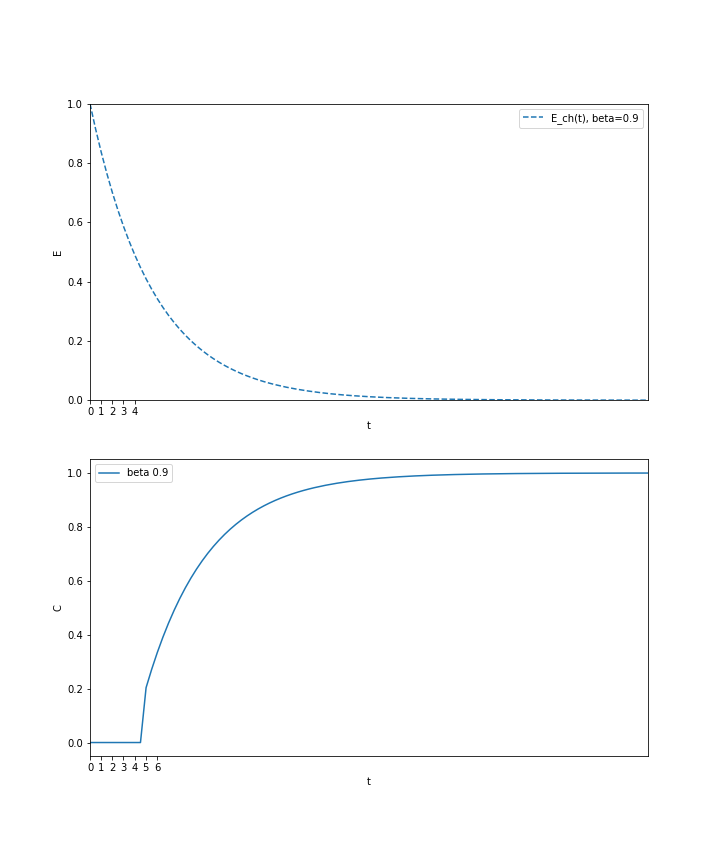
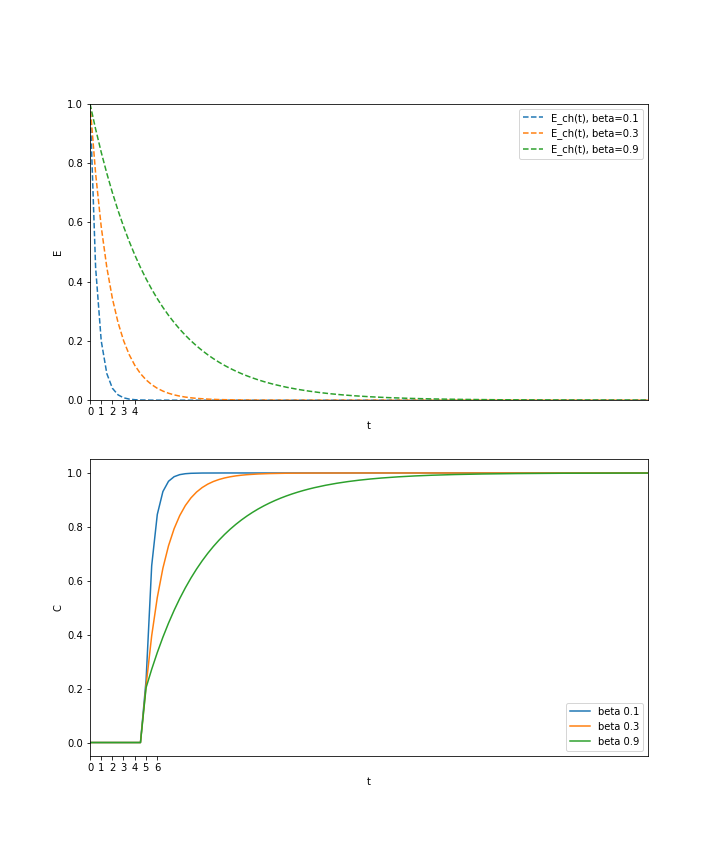
overlap

diff --git a/Experiments/Preliminary/Litrature/Dispersion_Model/Dispersion_Model_002.py b/Experiments/Preliminary/Litrature/Dispersion_Model/Dispersion_Model_002.py
@@ -14,12 +14,12 @@ def dispersion(t: npt.NDArray[np.float64], Bo: float, tau: float) -> npt.NDArray
     E = E / tau
     return E
 
-t = np.linspace(0, 140, 200, endpoint=True) #last position
+t = np.linspace(0, 240, 200, endpoint=True) #last position
 c_0 = np.zeros_like(t)
 c_0[t > 5] = 1
 fig, (ax1, ax2) = plt.subplots(2, 1, figsize=(10, 12))
 
-Bo_values = np.array([1,3,10])
+Bo_values = np.array([1])
 
 base_dir = '/Users/tuanaoyuncu/Documents/GitHub/nRTD/Experiments/Preliminary/Litrature/Dispersion_Model'
 
@@ -31,7 +31,7 @@ for Bo in Bo_values:
     valid_indices = t_conv_full <= 140
     t_conv = t_conv_full[valid_indices]
     c_out = c_out_full[valid_indices]
-    Bo_dir = os.path.join(base_dir, f'Bo{Bo}_200disc_140s')
+    Bo_dir = os.path.join(base_dir, f'Bo{Bo}_200disc_240s')
     os.makedirs(Bo_dir, exist_ok=True)
     print("c_out",c_out.shape)
     print("t_conv_full",t_conv.shape)

diff --git a/Experiments/Preliminary/Litrature/Unified_time_delay/Unified_time_delay_002 2.py b/Experiments/Preliminary/Litrature/Unified_time_delay/Unified_time_delay_002 2.py
@@ -62,8 +62,8 @@ for result in results:
     c_out = c_out_full[valid_indices]
     filename_time = f'time_J{J_val}_tau{tau_val}_alpha{alpha_val}.npy'
     filename_conc = f'concentration_J{J_val}_tau{tau_val}_alpha{alpha_val}.npy'
-    np.save(os.path.join(base_dir, filename_time), t_conv)
-    np.save(os.path.join(base_dir, filename_conc), c_out)
+    # np.save(os.path.join(base_dir, filename_time), t_conv)
+    # np.save(os.path.join(base_dir, filename_conc), c_out)
     print(f"integral E_t: {np.trapz(E_t, t)}")
     ax1.plot(t, E_t, label=f'J={J_val}, tau={tau_val}, alpha={alpha_val}')
     ax2.plot(t_conv, c_out, label=f'J={J_val}, tau={tau_val}, alpha={alpha_val}')
@@ -72,6 +72,7 @@ ax1.set_xlabel('t')
 ax1.set_ylabel('E(t)')
 ax1.legend()
 ax2.set_xlabel('t')
+ax2.set_xlim(0,30)
 ax2.set_ylabel('c(t)')
 ax2.legend()
 plt.tight_layout()

diff --git a/Experiments/Preliminary/Litrature/Cholete_Model/Cholete_Model_004.py b/Experiments/Preliminary/Litrature/Cholete_Model/Cholete_Model_004.py
@@ -25,7 +25,7 @@ c_0 = np.zeros_like(t)
 c_0[t > 5] = 1
 fig, (ax1, ax2) = plt.subplots(2, 1, figsize=(10, 12))
 
-beta_values = np.array([0.9])
+beta_values = np.array([0.1,0.3,0.9])
 base_dir = '/Users/tuanaoyuncu/Documents/GitHub/nRTD/Experiments/Preliminary/Litrature/Cholete_Model'
 
 for beta in beta_values:
@@ -41,8 +41,8 @@ for beta in beta_values:
     c_out = c_out_full[valid_indices]
     Bo_dir = os.path.join(base_dir, f'beta{beta}_100sc')
     os.makedirs(Bo_dir, exist_ok=True)
-    np.save(os.path.join(Bo_dir, 'time.npy'), t_conv)
-    np.save(os.path.join(Bo_dir, 'concentration.npy'), c_out)
+    # np.save(os.path.join(Bo_dir, 'time.npy'), t_conv)
+    # np.save(os.path.join(Bo_dir, 'concentration.npy'), c_out)
     c_out_derivative = np.gradient(c_out, t_conv)
     #ax1.plot(t, E, label=f'beta {beta}')
     
